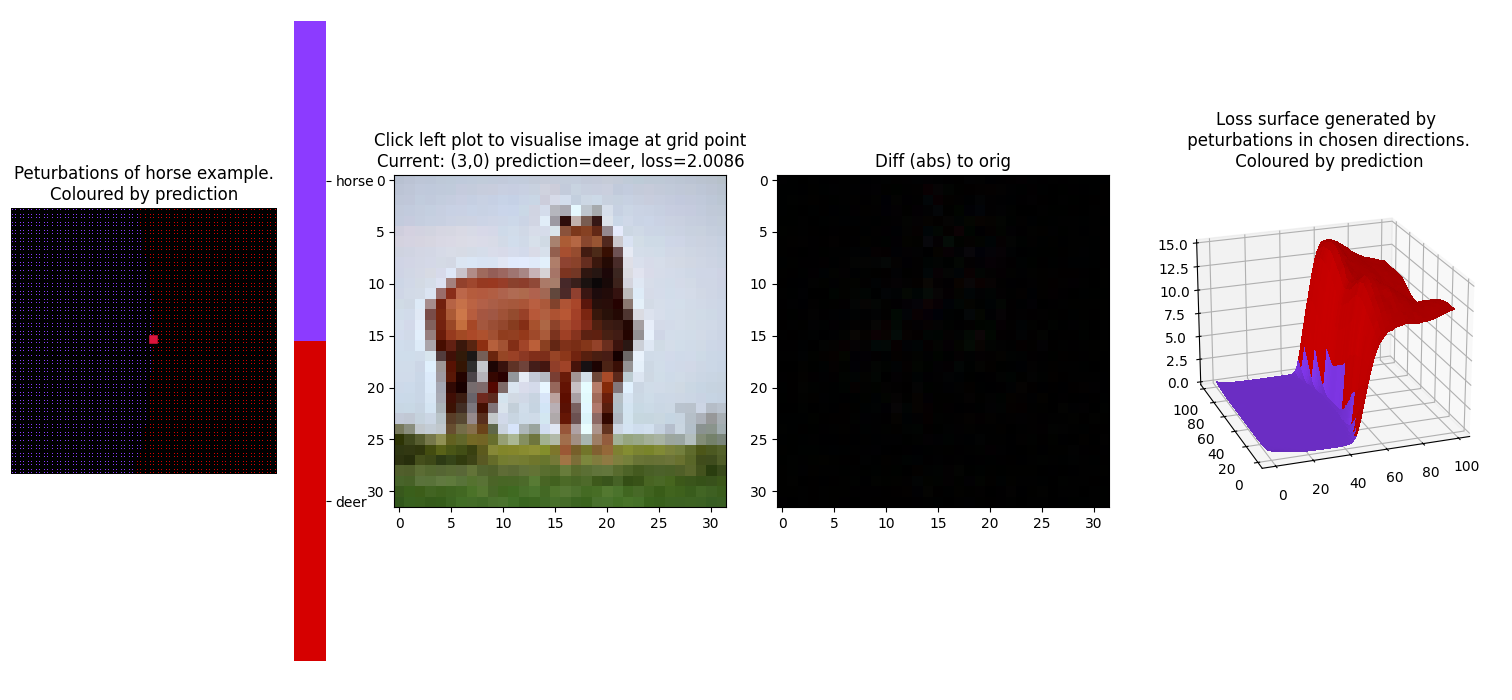
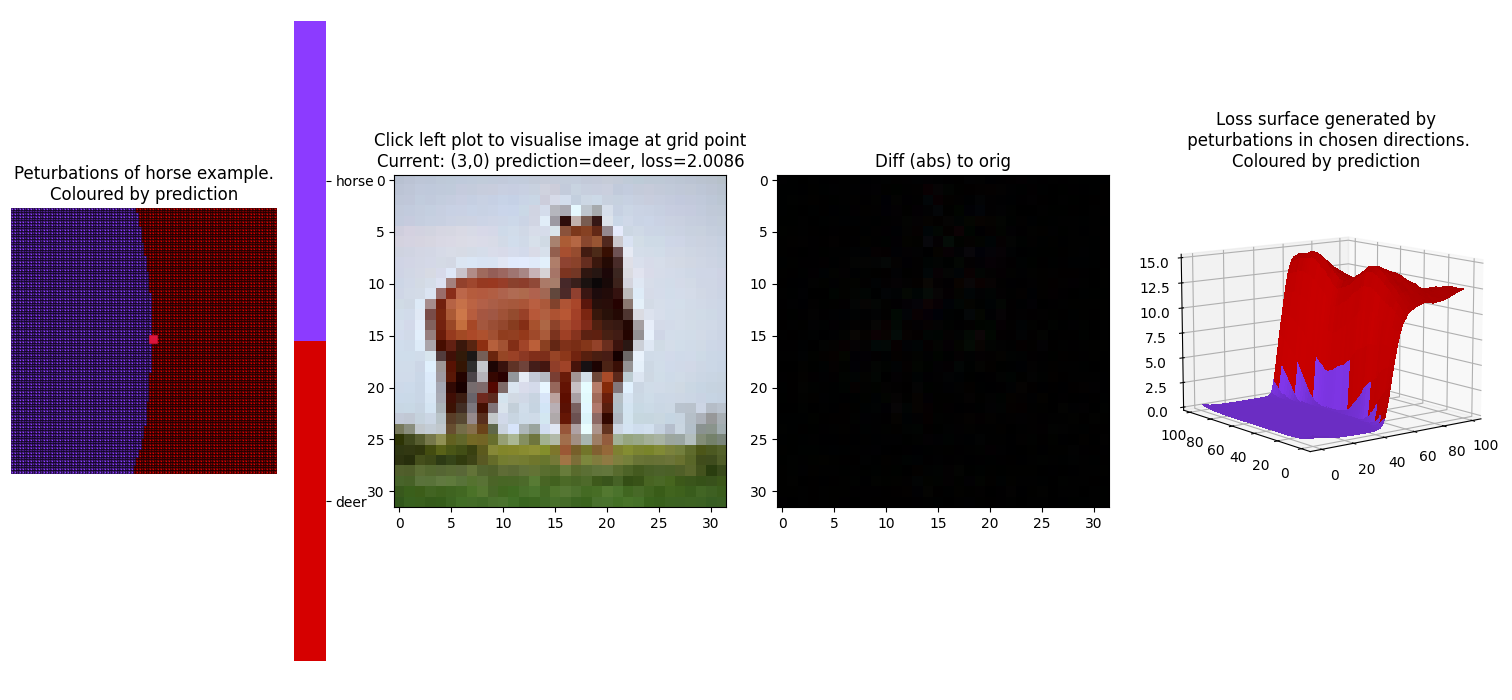
semi-transparant gridlines

Changed region(s): [[0.746, 0.3, 0.9947, 0.72], [0.0, 0.3, 0.1865, 0.69], [0.8082, 0.21, 0.9636, 0.24]]

diff --git a/src/imclassplots/plot.py b/src/imclassplots/plot.py
@@ -70,8 +70,8 @@ def plot_predictions(
         yticklabels=False,
         ax=ax0,
         square=True,
-        linecolor="black",
-        linewidths=2 / grid_size,
+        linecolor="#00000077",
+        linewidths=1 / grid_size,
     )
 
     colorbar = ax0.collections[0].colorbar

diff --git a/README.md b/README.md
@@ -39,16 +39,16 @@ Using a custom model trained on CIFAR10 (image resized to 32x32):
 requires extra dep `pip install git+https://github.com/lannelin/cifar10-resnet-lightning`
 
 random directions:
-![horse_deer_random]((/demo_images/horse_deer_random.png)
+![horse_deer_random](/demo_images/horse_deer_random.png)
 
 
 
 gradient-based x direction:
-![horse_deer_gradient]((/demo_images/horse_deer_gradient.png)
+![horse_deer_gradient](/demo_images/horse_deer_gradient.png)
 
 
 hessian eigenvector-based x and y directions:
-![horse_deer_gradient]((/demo_images/horse_deer_hess-eig.png)
+![horse_deer_gradient](/demo_images/horse_deer_hess-eig.png)
 
 
 
@@ -58,7 +58,7 @@ python pixel_plot.py --config ./configs/cifar10.yaml \
     --image_fpath ./demo_images/horse.jpeg \
     --true_label 7 \
     --grid_size 100 \
-    --scale_factor 0.1 \
+    --scale_factor 0.15 \
     --display_ims true \
     --batch_size 32 \
     --direction random \
